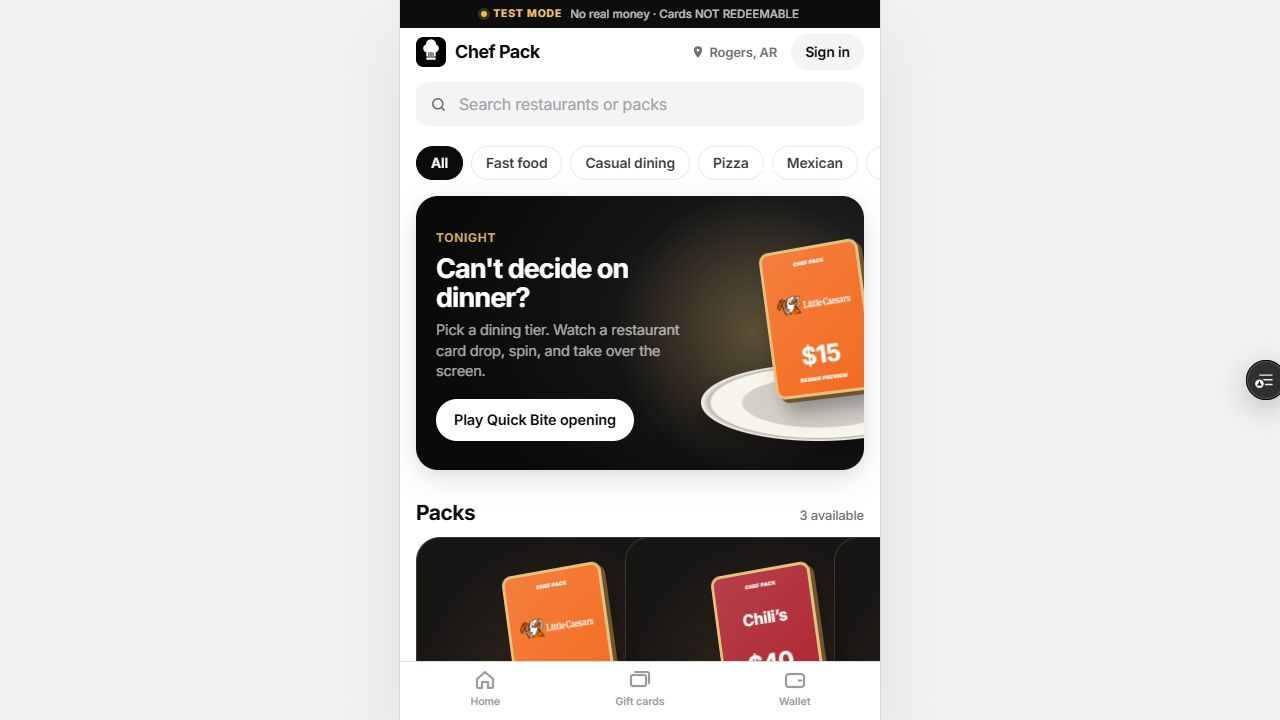
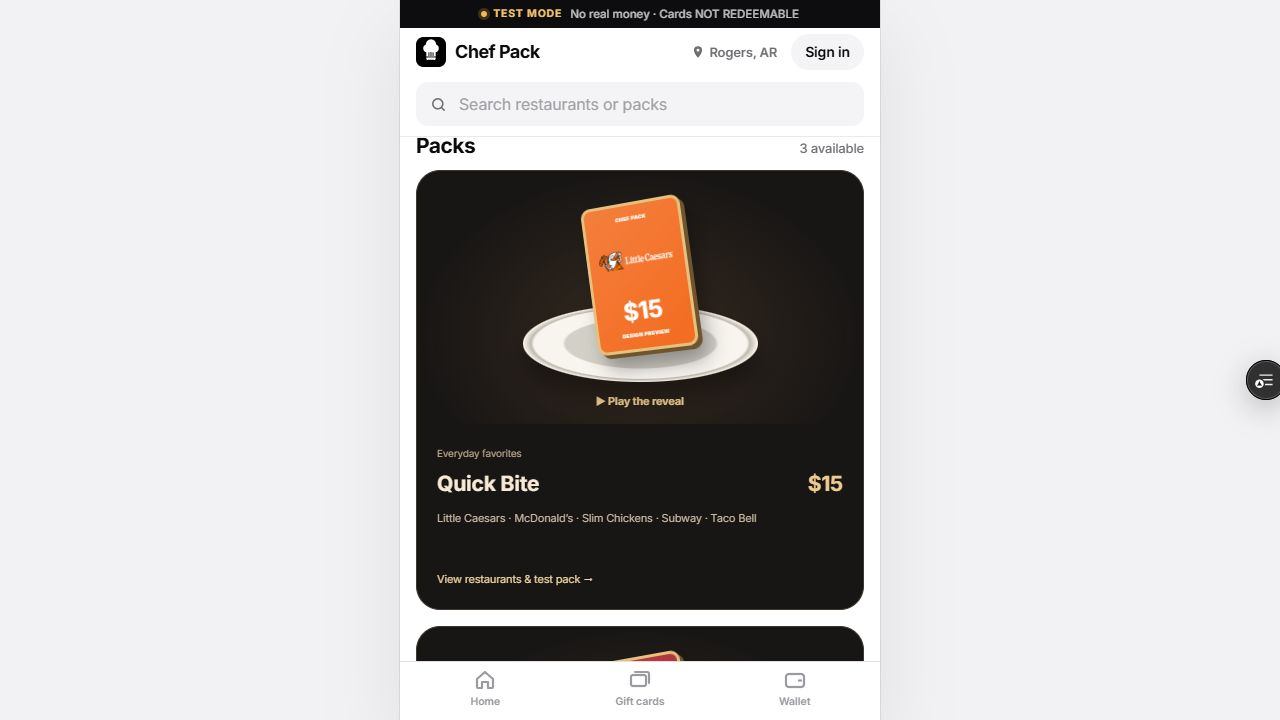
Record final readable tier layout and hosted verification

Changed region(s): [[0.3125, 0.1833, 0.6875, 0.9167]]

diff --git a/feedback.md b/feedback.md
@@ -1,9 +1,9 @@
 # Integrated pack experience handoff
 
 Readiness: BLOCKED for real-account integration and merge.
-Tested implementation: cfa75ed0d372de88c56737a7fe5b2a6a583897ab
+Tested implementation: 759a46aab6a1734a852e6b2803128d461b1fb48f
 Main included: 65fee1b112d65f4d5a46070d04584c69ada7c467
-Combined preview: https://chef-pack-2s8ibocrq-ctbedfords-projects.vercel.app/
+Combined preview: https://chef-pack-a8j0vl7r3-ctbedfords-projects.vercel.app/
 
 Choose Packs now shows three tier cards with direct animation auditions and nine restaurant names from Supabase. Tier pages show restaurant choices and a clear no-account preview action. Both these previews and signed-in server-result openings use the shared 3D drop/twirl/cascade. Test opens retain the server restaurant label, amount and wallet flow. The older foil showcase is replaced for API packs.
 

diff --git a/reports/frontend/JUSTIN-HANDOFF.md b/reports/frontend/JUSTIN-HANDOFF.md
@@ -2,7 +2,7 @@
 
 ## Latest integrated UI update
 
-Current tested code: cfa75ed0d372de88c56737a7fe5b2a6a583897ab. Preview: https://chef-pack-2s8ibocrq-ctbedfords-projects.vercel.app/
+Current tested code: 759a46aab6a1734a852e6b2803128d461b1fb48f. Preview: https://chef-pack-a8j0vl7r3-ctbedfords-projects.vercel.app/
 
 Choose Packs and API tier pages now share the new visual language. Tier cards play the 3D reveal directly; detail pages let the visitor audition each restaurant without sign-in. A selected tier filters restaurant artwork. The picker has nine Supabase-backed designs across three tiers, including four explicit wordmark/initials designs where no logo file is supplied. The obsolete study-only result wording is replaced with a pack preview result.
 
